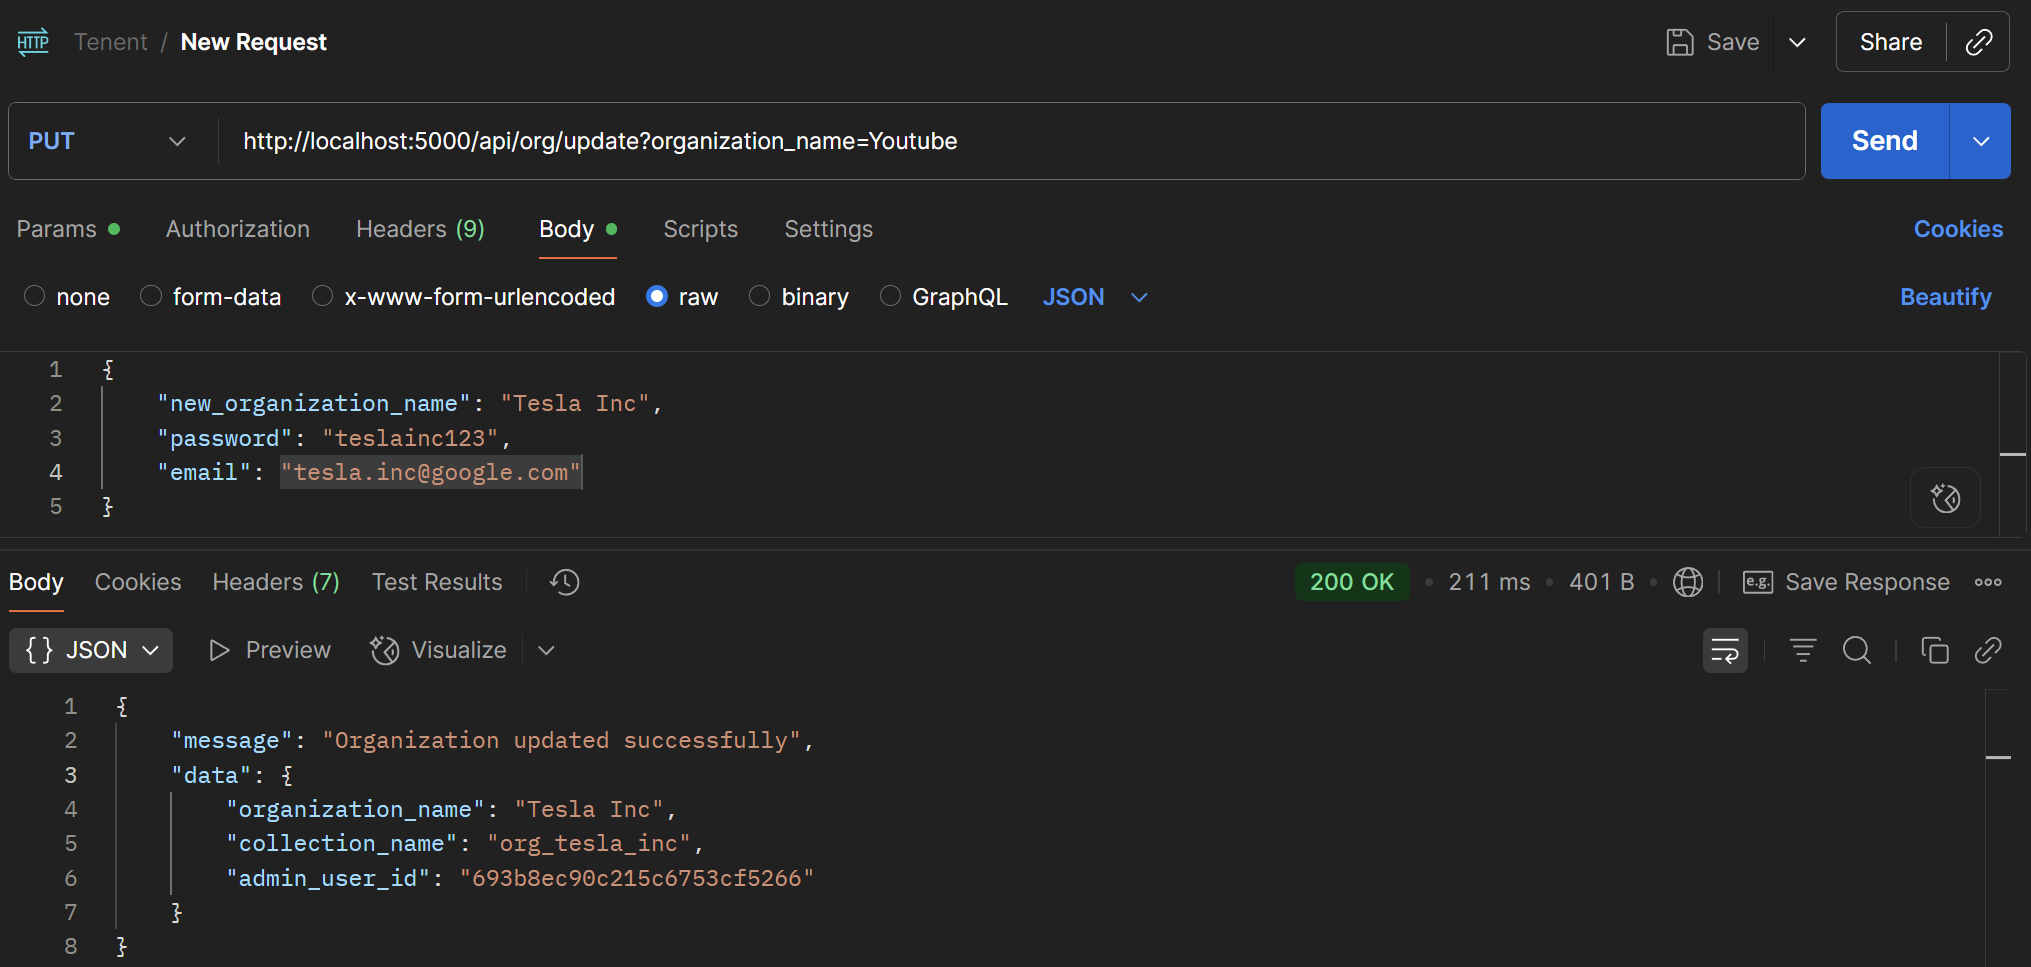
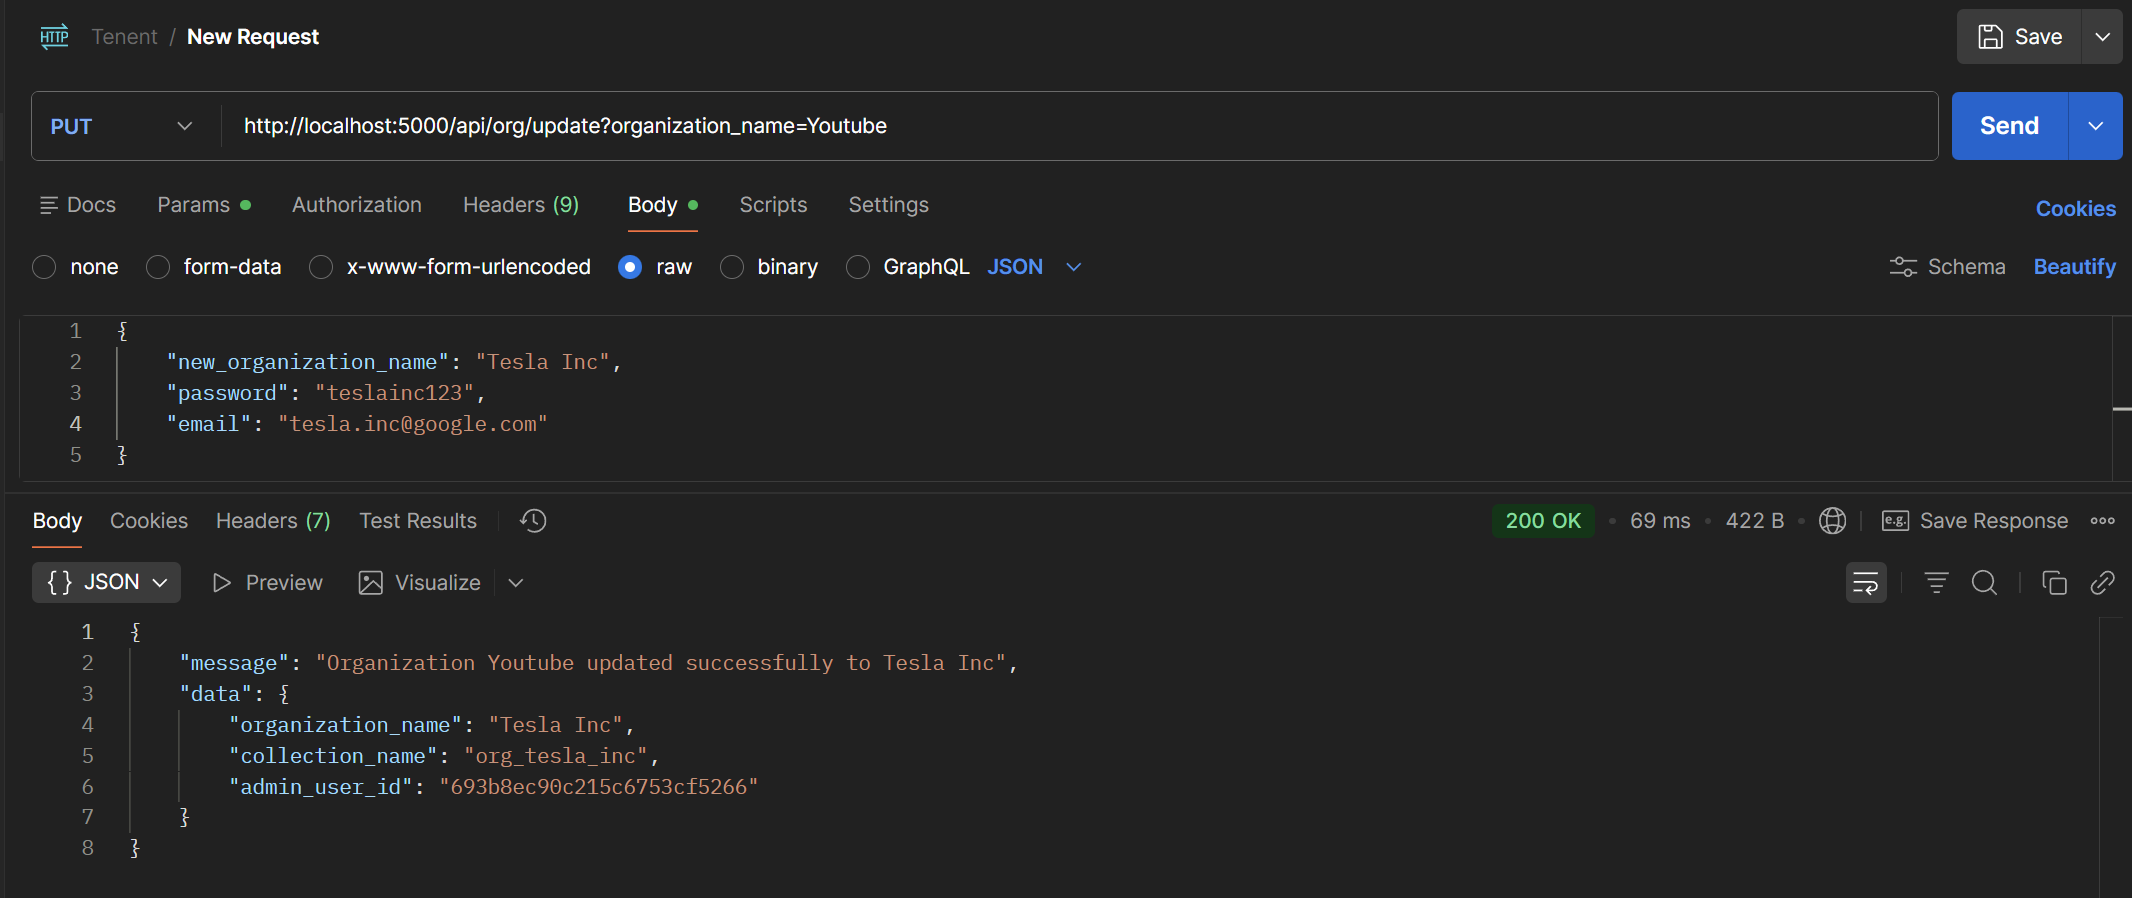
fix: Update success message in updateOrganization and improve dynamic schema comment

diff --git a/source/controllers/organization.controller.js b/source/controllers/organization.controller.js
@@ -15,7 +15,7 @@ const createDynamicOrgCollection = async (collectionName) => {
     const dynamicSchema = new mongoose.Schema({ 
         data_field : String,
         created_at: {type: Date, default: Date.now}
-    }, {strict: false});    // false will allow dynamic schema
+    }, {strict: false});    // false will allow dynamic schema 
 
     const DynamicModel = mongoose.model(collectionName, dynamicSchema, collectionName);   // Compile the model (this registers it in Mongoose)  // the third parameter is to specify collection name explicitly as mongoose by default pluralizes the model name by adding 's' at the end
     
@@ -242,7 +242,7 @@ export const updateOrganization = async (req, res) => {
         await organization.save();
 
         res.status(200).json({
-            message : "Organization updated successfully",
+            message : `Organization ${currentOrgName} updated successfully to ${organization.organization_name}`,
             data : {
                 organization_name: organization.organization_name,
                 collection_name: organization.collection_name,
